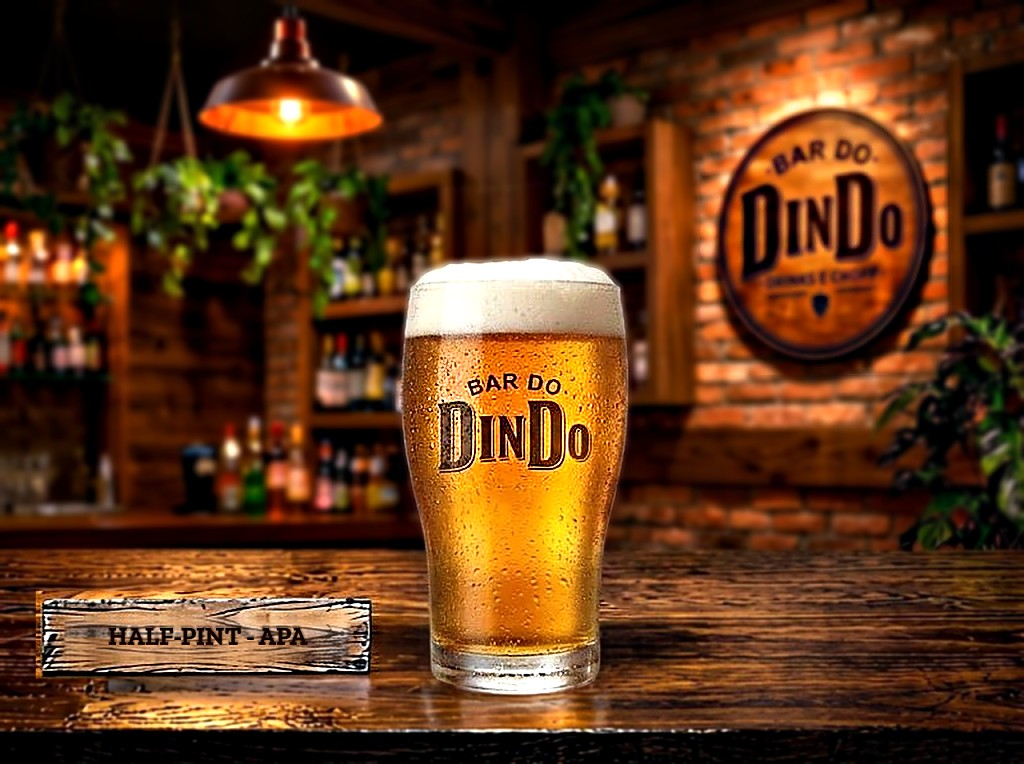
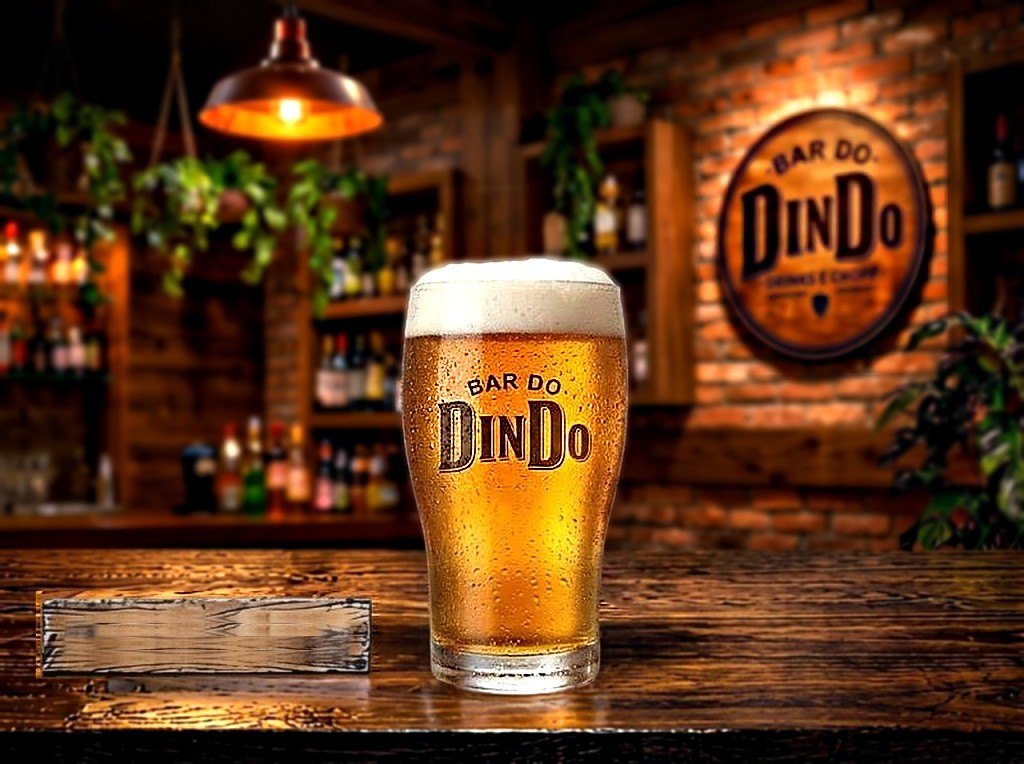
Fotos dos chopes: plaquinha em branco na foto modelo e no pedido (#226)
A foto que volta do Gemini não traz mais "HALF-PINT - APA": a plaquinha vem lisa e o Cérebro escreve o nome certo ao colar.

Claude-Session: https://claude.ai/code/session_01XLRcCqgxJnkkaNYg3pKL4p

Changed region(s): [[0.0312, 0.7827, 0.375, 0.9031]]

diff --git a/crm/src/components/GerarFotosChopes.tsx b/crm/src/components/GerarFotosChopes.tsx
@@ -186,7 +186,7 @@ export function GerarFotosChopes({ rows, onSalvar, onFim, onClose }: {
           Chopes de cor parecida usam a mesma foto: {grupos.length} {grupos.length === 1 ? 'foto gera' : 'fotos geram'} os {rows.length} chopes. {modo === 'gratis'
             ? 'Toque em "Copiar pedido" num grupo: o pedido é copiado, a foto modelo do copo é baixada e o Gemini abre por cima do Cérebro. Lá, anexe a foto modelo, cole o pedido e envie; depois copie a imagem pronta e cole aqui (Ctrl+V).'
             : 'Cada grupo marcado vai para o Gemini com a foto modelo do copo. Usa a chave da IA de Configurações → Parâmetros, que precisa do faturamento ativo no Google AI Studio.'}
-          {' '}O Cérebro realça contraste e nitidez e escreve a plaquinha de cada chopp; confira e toque em "Trocar".
+          {' '}A foto do Gemini vem com a plaquinha em branco: ao colar aqui, o Cérebro realça contraste, nitidez e o logo e escreve a plaquinha de cada chopp; confira e toque em "Trocar".
         </p>
         <div className="refazer-fotos__filtro">
           <span>{[...marcados].filter((k) => itens.some((g) => g.chave === k)).length} de {itens.length} grupos marcados</span>

diff --git a/crm/src/lib/iaFoto.ts b/crm/src/lib/iaFoto.ts
@@ -231,7 +231,7 @@ PRESERVAR, SEM NENHUMA ALTERAÇÃO
 - Formato 4:3, enquadramento, ângulo e altura da câmera, distância focal, profundidade de campo e desfoque do fundo.
 - Cenário: balcão de madeira escura em primeiro plano, luminária pendente de cobre acesa no alto à esquerda, plantas penduradas, prateleiras com garrafas, parede de tijolos e a placa redonda de madeira do Bar do Dindo (logo e letras idênticos).
 - ${d[0].toUpperCase()}${d.slice(1)}: mesmo formato, tamanho, posição no balcão, logo "BAR DO DINDO" gravado no vidro, reflexos e sombra.
-- A plaquinha de madeira à esquerda, com o texto que já está nela: não mexa (ela é trocada depois).
+- A plaquinha de madeira à esquerda fica lisa, SEM nenhum texto: não escreva nada nela (o nome do chopp é colocado depois).
 - Iluminação: a mesma luz quente da luminária e o mesmo balanço de branco.
 
 ALTERAR
